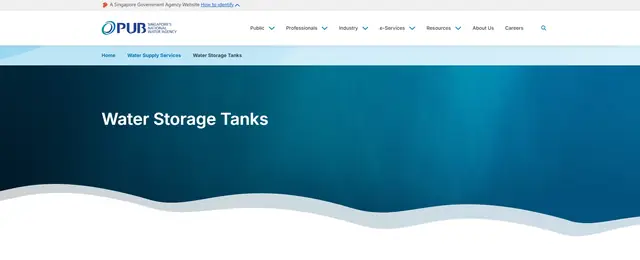
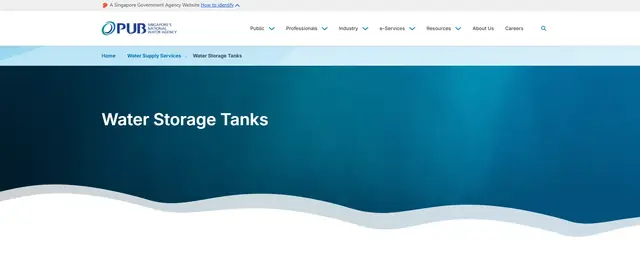
feat(portfolio): new Water-tank backdrop (PUB Water Storage Tanks page)
Address bar, scrollbar, floating toolbar and chat pop-up cropped out. Worst-case text
contrast at rest: 5.1 dark, 7.4 light.

diff --git a/index.html b/index.html
@@ -11,7 +11,7 @@
   <meta property="og:type" content="website">
   <link rel="icon" href="favicon.svg" type="image/svg+xml">
   <link rel="preload" as="image" type="image/avif" href="img/hero-800.avif" imagesrcset="img/hero-480.avif 480w, img/hero-800.avif 800w, img/hero-1000.avif 1000w" imagesizes="(min-width: 1152px) 1120px, 100vw" fetchpriority="high">
-  <link rel="stylesheet" href="styles.css?v=73">
+  <link rel="stylesheet" href="styles.css?v=74">
   <script>
     // Apply the saved theme before first paint to avoid a flash.
     try { var t = localStorage.getItem('theme'); if (t) document.documentElement.dataset.theme = t; } catch (e) {}
@@ -264,7 +264,7 @@
           <picture class="project__bg" aria-hidden="true">
             <source type="image/avif" srcset="img/water-640.avif 640w, img/water-960.avif 960w" sizes="(min-width: 900px) 560px, 100vw">
             <source type="image/webp" srcset="img/water-640.webp 640w, img/water-960.webp 960w" sizes="(min-width: 900px) 560px, 100vw">
-            <img src="img/water-640.jpg" srcset="img/water-640.jpg 640w, img/water-960.jpg 960w" sizes="(min-width: 900px) 560px, 100vw" width="960" height="390" alt="" loading="lazy" decoding="async" draggable="false">
+            <img src="img/water-640.jpg" srcset="img/water-640.jpg 640w, img/water-960.jpg 960w" sizes="(min-width: 900px) 560px, 100vw" width="960" height="397" alt="" loading="lazy" decoding="async" draggable="false">
           </picture>
           <span class="project__glass" aria-hidden="true"></span>
           <header>
